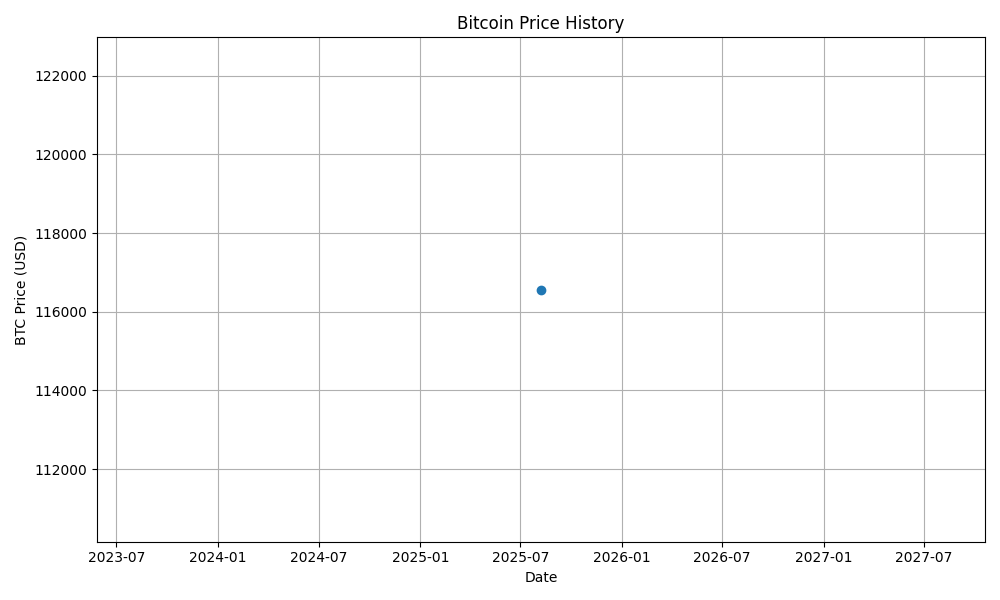
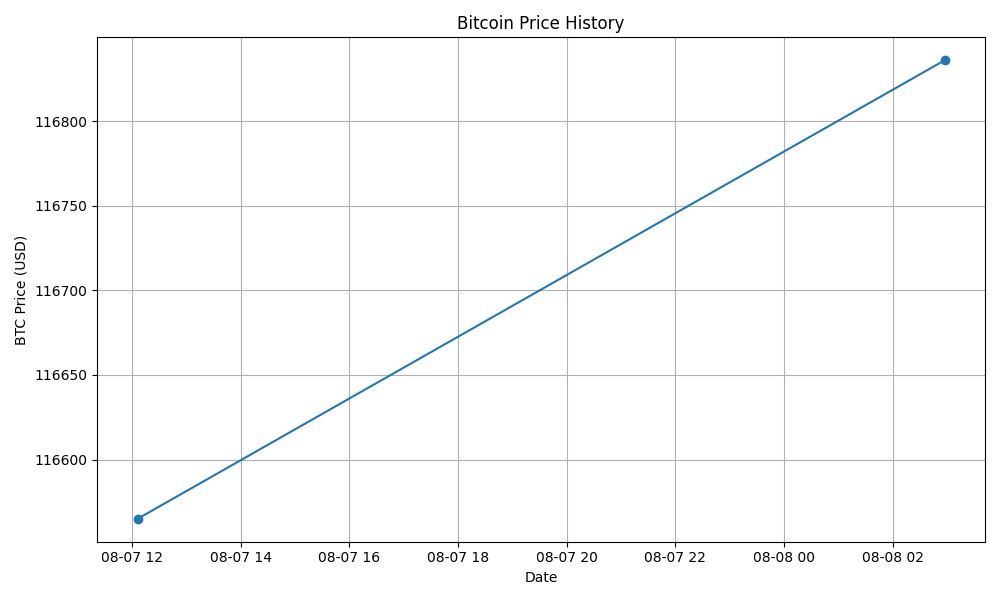
Update: BTC price, chart & README for 2025-08-08

diff --git a/README.md b/README.md
@@ -4,6 +4,6 @@ This project automatically fetches and charts the daily USD price of Bitcoin.
 
 ## Latest Stats
 
-## Latest price (USD): <!--BTC_PRICE-->116565<!--/BTC_PRICE-->
+## Latest price (USD): <!--BTC_PRICE-->116836<!--/BTC_PRICE-->
 
 ![BTC Historical Chart](btc_price_history.png)
